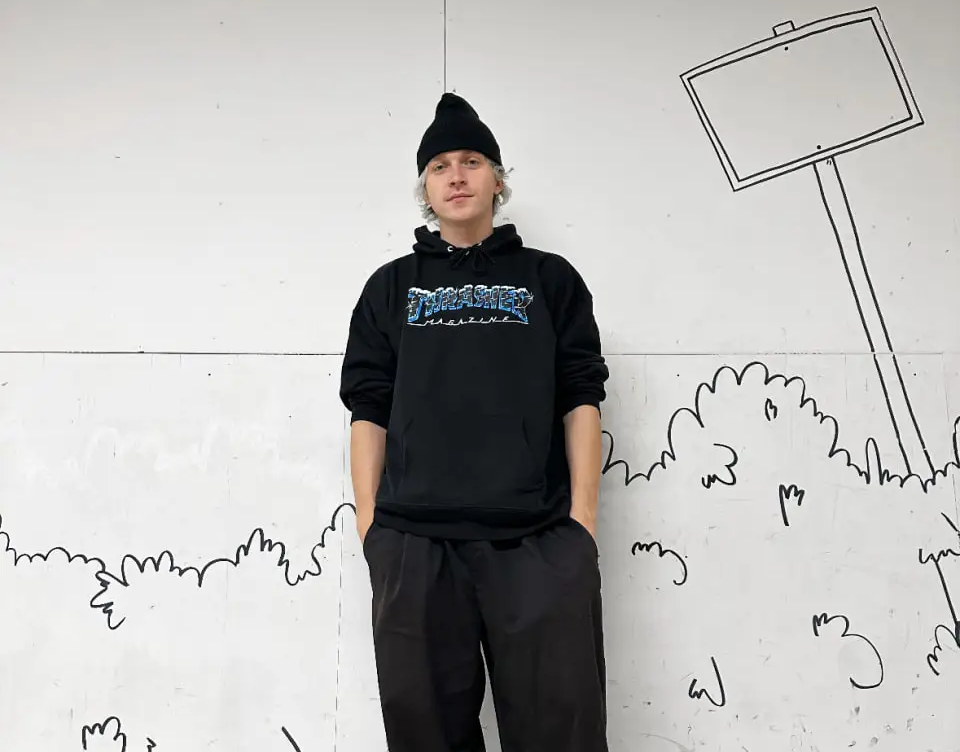
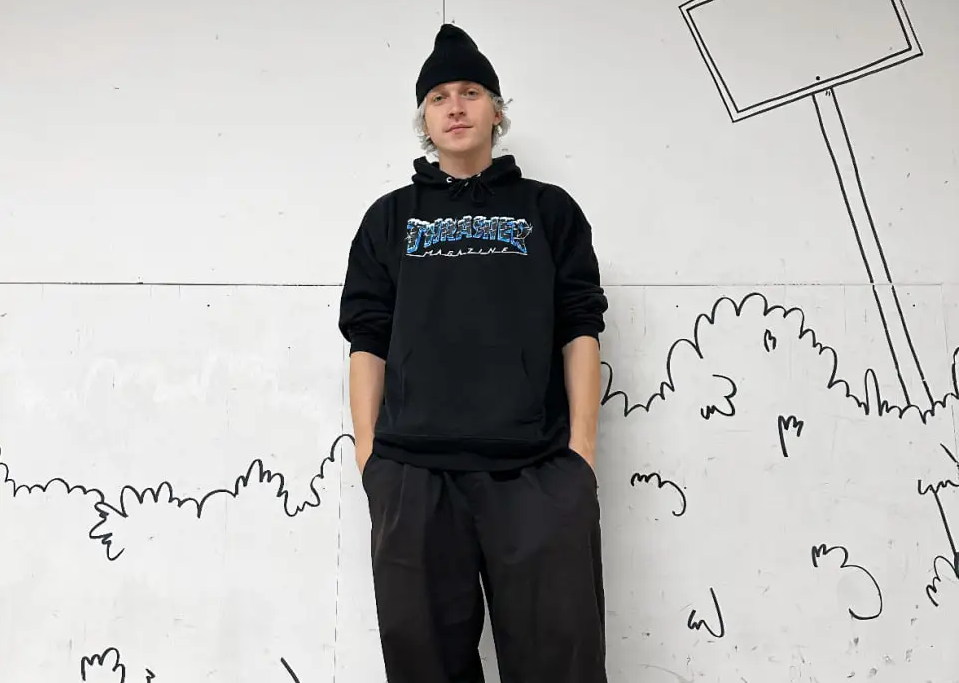
roma photo updated + all coach thumbs alinged

diff --git a/src/app/data.js b/src/app/data.js
@@ -58,7 +58,7 @@ export const mentorsData = [
     description:
       "описание будет здесь описание будет здесь описание будет здесь мописание будет здесьописание будет здесьописание будет здесьописание будет здесьописание будет здесьописание будет здесьммы",
     video: "/mentors/mentor1.mp4",
-    thumb: "mentors/mentor-thumb1.webp"
+    thumb: "mentors/mentor-thumb1.jpg"
   },
   {
     id: 1,
@@ -103,7 +103,7 @@ export const mentorsData = [
   },
   {
     id: 5,
-    name: "???",
+    name: "Лёша",
     age: "29 лет",
     experience: 5,
     description:
